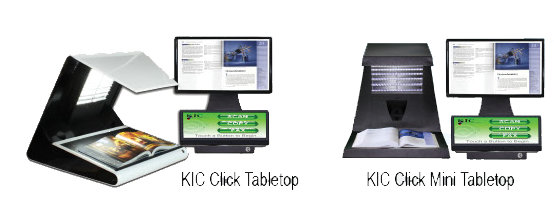
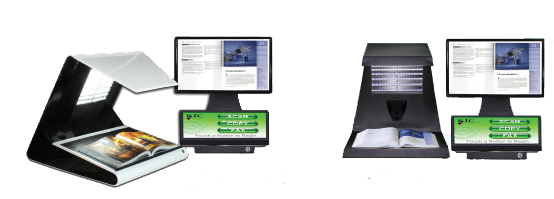
make_new_pages_with_text

Changed region(s): [[0.6444, 0.8442, 0.9513, 0.9347], [0.3069, 0.8442, 0.5523, 0.9347]]

diff --git a/Image Access Site/css/click_and_click_mini.css b/Image Access Site/css/click_and_click_mini.css
@@ -147,17 +147,18 @@
     font-size: xx-large;
     text-align: center;
     font-weight: 600;
+    margin-top: 1%;
 }
 
 .infoblock .dvfu2 {
     float: left;
     font-weight: 600;
     font-size: x-large;
-    padding: 10px;
+    margin-top: 3%;
+
 }
 
 .infoblock .dv_block {
-
     width: 48%;
     display: block;
     margin-top: 6%;
@@ -167,7 +168,7 @@
 .infoblock .dv_block1 {
     float: left;
     margin-left: 50%;
-    margin-top: -24.2%;
+    margin-top: -21.5%;
     width: 48%;
 }
 
@@ -205,17 +206,19 @@
 .infoblock .center__img {
     float: right;
     width: 58%;
+    position: absolute;
     padding-left: 20px;
+    margin-left: 40%;
 }
 
-.center__text--padding {
-    padding-top: 90px;
+.infoblock .center__text--padding {
+    padding-top: 60px;
     position: relative;
+    width: 42%;
 }
 
-.center__text--margin {
-    padding-top: 25px;
-    width: 50%;
+.infoblock .center__text--margin {
+    width: 56%;
 }
 
 .infoblock__nav {
@@ -295,20 +298,24 @@
     margin-left: 2%;
 }
 
-.infoblock .true2_save_to_usb {
+.infoblock .kic_div .true2_save_to_usb {
     width: 45%;
-    float: left;
+    margin-top: 5%;
+
 }
 
 .infoblock .true2_label {
     font-weight: 600;
     font-size: x-large;
     text-align: center;
+    position: absolute;
+    margin-left: 5%;
+    margin-top: -3%;
 }
 
 .infoblock .true2_block_usb {
     width: 100%;
-    display: table-cell;
+    margin-top: 6%;
 }
 
 .infoblock .true2_label1 {
@@ -318,21 +325,38 @@
 }
 
 .infoblock .true2_block_2 {
-    width: 50%;
+    width: 64%;
 }
 
 .infoblock .true2_block_3 {
     width: 30%;
-    margin-left: 9%;
+    margin-left: 18%;
     font-style: italic;
 }
 
 .infoblock .kic_div .true2_two_screens {
-    width: 47%;
+    width: 33%;
     float: right;
 }
 
 .infoblock .true2_label2 {
-    margin-top: 10%;
-    margin-left: 66%;
+    margin-left: 74%;
+    font-weight: 600;
+}
+
+.infoblock .tablepot {
+    margin-left: 8%;
+}
+
+.infoblock .tablepot_mini {
+    margin-left: 28%;
+    margin-top: -2.5%;
+}
+
+.infoblock .text_undergorund_label {
+    font-style: italic;
+    font-weight: 300;
+    margin-left: 25%;
+    text-align: center;
+    width: 70%;
 }

diff --git a/Image Access Site/pages/KIC_Click_and_Mini_KIC_Face_Down_vs_Face_Up.html b/Image Access Site/pages/KIC_Click_and_Mini_KIC_Face_Down_vs_Face_Up.html
@@ -50,7 +50,7 @@
 
             <p class="dvfu3">Face-up book scanning is far easier on both
                 patrons and books and quite a bit faster than face-down scanning.</p>
-            <br>
+
             <p>Scanning books face-up makes it much easier to keep track
                 of what pages you've scanned.With KIC Click, Click Mini and other face-up scanners,
                 books stay face up, so you can see what you're scanning as
@@ -64,7 +64,7 @@
                 necessary to scan a book on a face-down scanner like the KIC BookEdge
                 is shown in the photo sequence below. It's a workout both for the book
                 and the patron.</p>
-            <br>
+
             <p>The ergonomic design of the face-up scanning systems
                 involves only the basic movement required to set a book down and turn a page.</p>
         </div>

diff --git a/Image Access Site/pages/Opus_FreeFlow_No_Compromise.html b/Image Access Site/pages/Opus_FreeFlow_No_Compromise.html
@@ -28,7 +28,7 @@
         <li><a href="Opus_FreeFlow_vs_Opus_WorkFlow.html">Opus FreeFlow vs Opus WorkFlow</a></li>
     </ul>
     <div class="infoblock">
-        <span class="infoblock_no_compromise">No Compromise</span>
+        <span class="infoblock_no_compromise">No Compromise Treated Images</span>
         <div class="infoblock_do_before_1">
             <span class="infoblock_curve_collection">Curve Collection</span>
             <img src="../images/Opus_Free_Flow/do_before_1.png"/>
@@ -41,7 +41,7 @@
             <span class="infoblock_curve_collection">Bleedthrough Correction</span>
             <img src="../images/Opus_Free_Flow/do_before_3.png"/>
         </div>
-        <img src="../images/Opus_Free_Flow/do_before_4.png">
+
     </div>
 </div>
 <footer>

diff --git a/Image Access Site/pages/KIC_Click_and_Mini_Beautiful_Images_Fast_and_Easy.html b/Image Access Site/pages/KIC_Click_and_Mini_Beautiful_Images_Fast_and_Easy.html
@@ -83,7 +83,7 @@
                         consumer scanners. It easily handles books that are too big for an 11x17 inch scan bed, scanning
                         them two pages at a time without damage to their spines.</p>
                     <img src="../images/Dlsg/KIC/Click_Page5_RotatedBookpages.png">
-                    <p class="text6">Very large volumes can be scanned sideways, one page at a time and rotated.</p>
+                    <p class="text_undergorund_label">Very large volumes can be scanned sideways, one page at a time and rotated.</p>
                 </div>
             </article>
         </div>

diff --git a/Image Access Site/pages/KIC_Click_and_Mini_True_2_Touch_User_Interface.html b/Image Access Site/pages/KIC_Click_and_Mini_True_2_Touch_User_Interface.html
@@ -62,9 +62,10 @@
             <div>
                 <img class="true2_save_to_usb" src="../images/Dlsg/KIC/SaveToUsb.png" width="543" height="386"
                      alt="save">
-                <div class="true2_block_usb">
+
                     <p class="true2_label">KIC's True2Touch&trade; User Interface, Especially Forgiving for
                         Beginners</p>
+                <div class="true2_block_usb">
                     <ul>
                         <li>
                             <p>KIC is very agile, and allows the user to jump from just about anywhere in the touch

diff --git a/Image Access Site/pages/Opus_FreeFlow_Content_Stabilization.html b/Image Access Site/pages/Opus_FreeFlow_Content_Stabilization.html
@@ -28,7 +28,7 @@
         <li><a href="Opus_FreeFlow_vs_Opus_WorkFlow.html">Opus FreeFlow vs Opus WorkFlow</a></li>
     </ul>
     <div class="infoblock">
-        <p class="treated">Treated Images</p>
+        <p class="treated">Content Stabilization</p>
         <div class="content_stabilization">
             <p class="content_stabilization1">Content Stabilization is a general term for automatic and manual
                 varieties of image treatment that can be performed during or after scan

diff --git a/Image Access Site/css/free-flow.css b/Image Access Site/css/free-flow.css
@@ -72,11 +72,11 @@
 }
 
 .infoblock .infoblock_no_compromise {
-    margin-left: 65%;
+    text-align: center;
     margin-top: 2%;
     color: black;
     text-shadow: none;
-    font-size: x-large;
+    font-size: xx-large;
 }
 
 .infoblock .infoblock_do_before_1 {
@@ -222,6 +222,7 @@
 
 .infoblock .treated {
     font-size: xx-large;
+    text-align: center;
 }
 
 .infoblock .content_stabilization {

diff --git a/Image Access Site/pages/KIC_Click_and_KIC_Click_Mini.html b/Image Access Site/pages/KIC_Click_and_KIC_Click_Mini.html
@@ -67,6 +67,8 @@
         </p>
         <img class="two_click_together"
              src="../images/JPGs%20for%20KIC%20Click%20&%20Click%20Mini%20Brochure/two_click_together.png"/>
+        <p class="tablepot">KIC Click Tabletop</p>
+        <p class="tablepot_mini">KIC Click Mini Tabletop</p>
     </div>
 </div>
 <footer>
